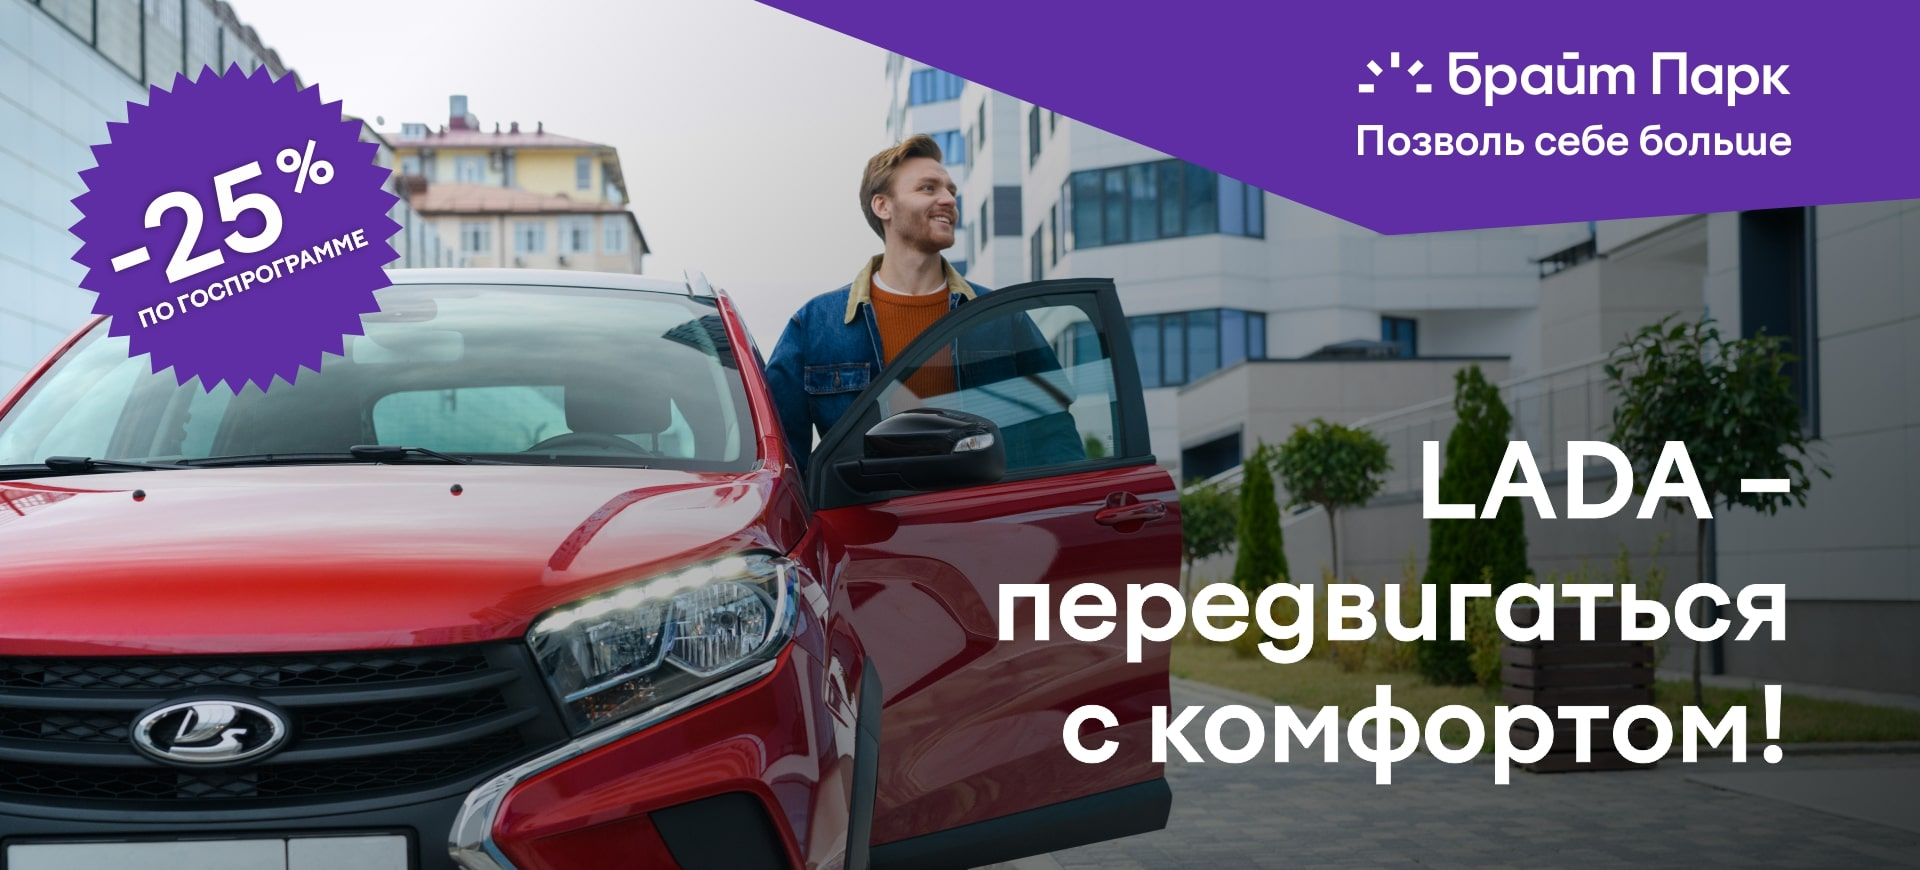
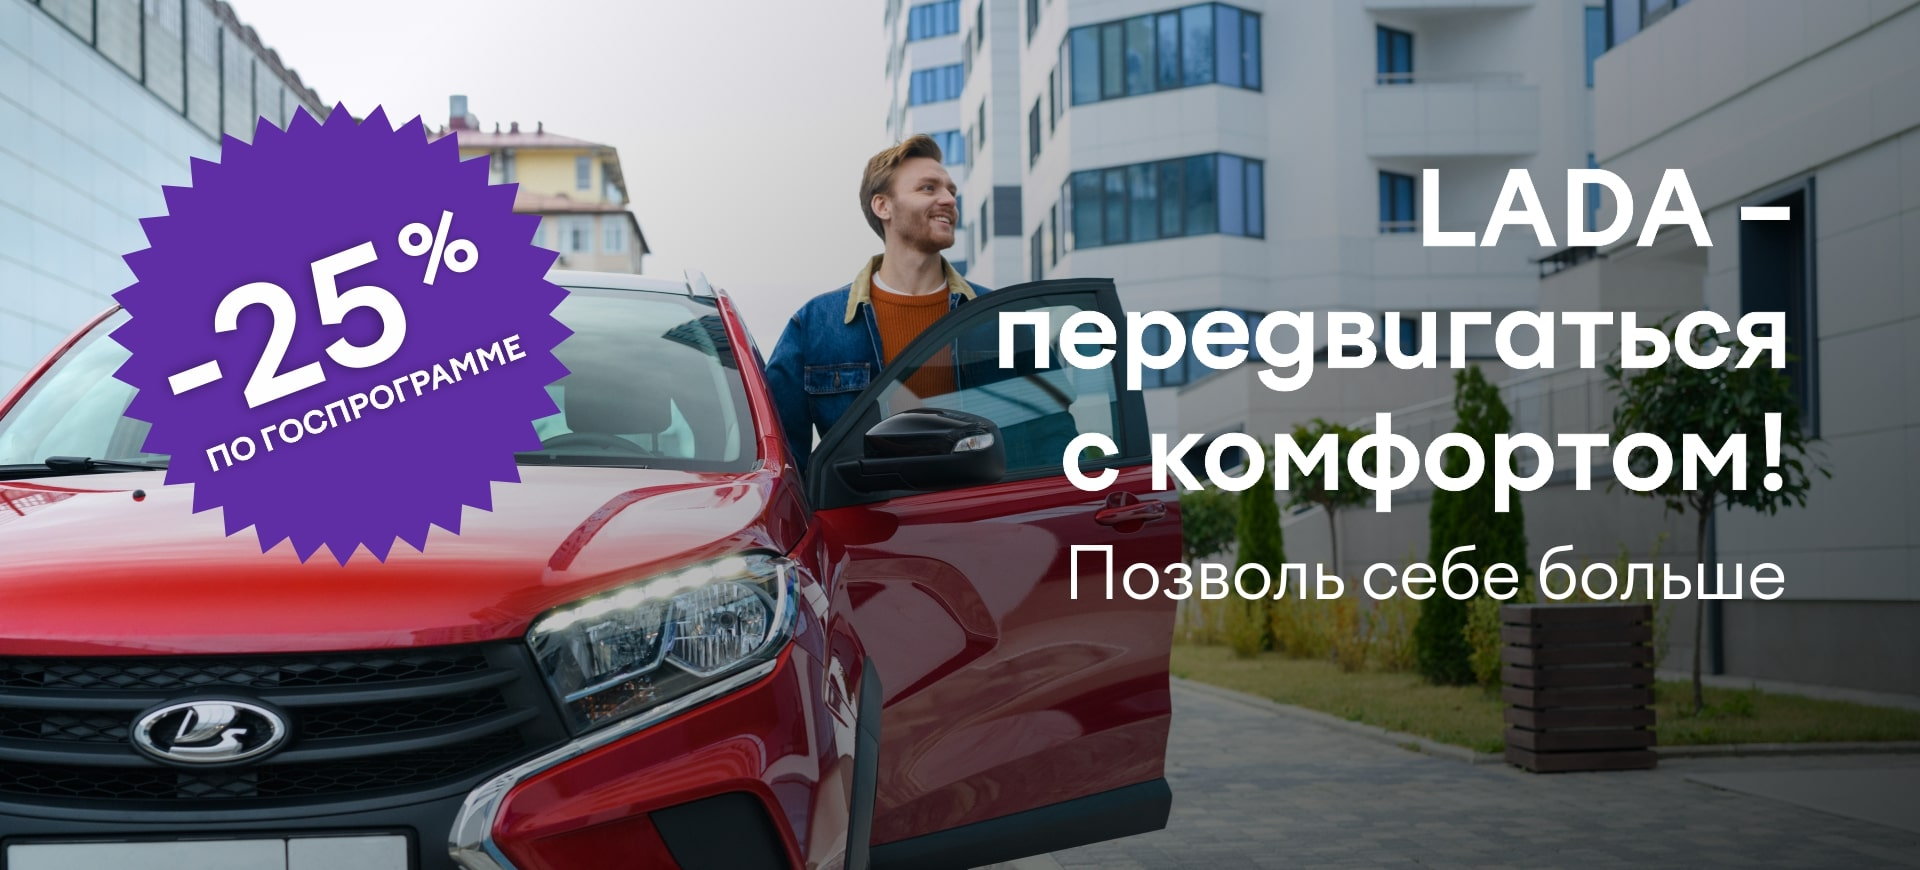
Обновил баннер
#main #banner

diff --git a/components/banners/MainBanner.vue b/components/banners/MainBanner.vue
@@ -82,7 +82,7 @@ export default {
           key: 0,
           title: 'lada-peredvigatsya-s-komfortom',
           extension: 'jpg',
-          place: 'banner-button-2',
+          place: 'banner-button-4',
           buttons: [
             {
               key: 1,
